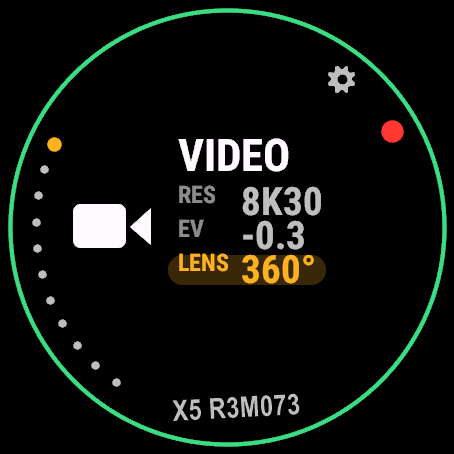
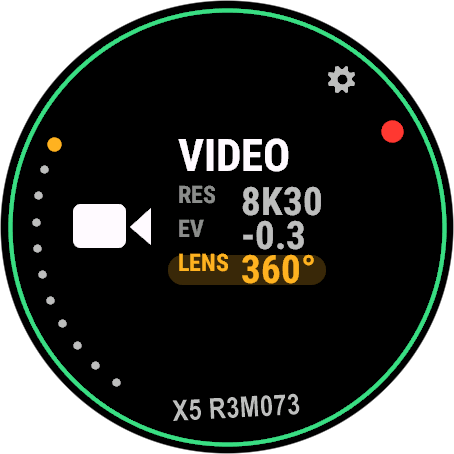
Store figures: transparent background outside the screen disc, at the author's ruling
The author asked that the round captures carry no background outside the
watch's screen circle. All seven 454x454 round shots (Main, Main+settings,
Recording, Starting, Connecting, Menu, Glance) now carry an alpha channel:
opaque inside the inscribed screen circle, transparent outside, one-pixel
feather on the boundary so the disc edge stays smooth. Corners measured
alpha=0, disc centre and rim alpha=255. The images stay square with the
round device centred - the shape the store itself asks for; edge.png keeps
its black canvas (it shows a rectangular device). Sizes unchanged, all far
under the 150 KB limit.

Changed region(s): [[0.0, 0.0, 1.0, 1.0], [0.0, 0.0, 0.4934, 0.4934]]

diff --git a/docs/store-listing-1.0.0.md b/docs/store-listing-1.0.0.md
@@ -159,6 +159,10 @@ l'utilisateur voie ce qu'il rencontre en premier (il est déjà décrit en tête
 > posée par l'auteur : sur toute image, le numéro de série de la caméra est
 > remplacé par « R3M073 » — la vraie suffixe est la clé de wake de la caméra et
 > ne doit jamais paraître dans un fichier public (même règle que tools.md).
+> Fond transparent hors du disque d'écran sur les sept captures rondes (demande
+> de l'auteur ; le format reste carré, l'appareil rond centré dedans, comme les
+> consignes Garmin le demandent) ; edge.png garde son fond noir, carré 640×640
+> sous la limite des 150 Ko.
 
 Contrainte physique : les écrans 1, 2, 3, 5, 6 supposent une **caméra réellement liée**.
 En atelier, le lien ne se fait que si la caméra est éveillée et accepte l'appairage côté
